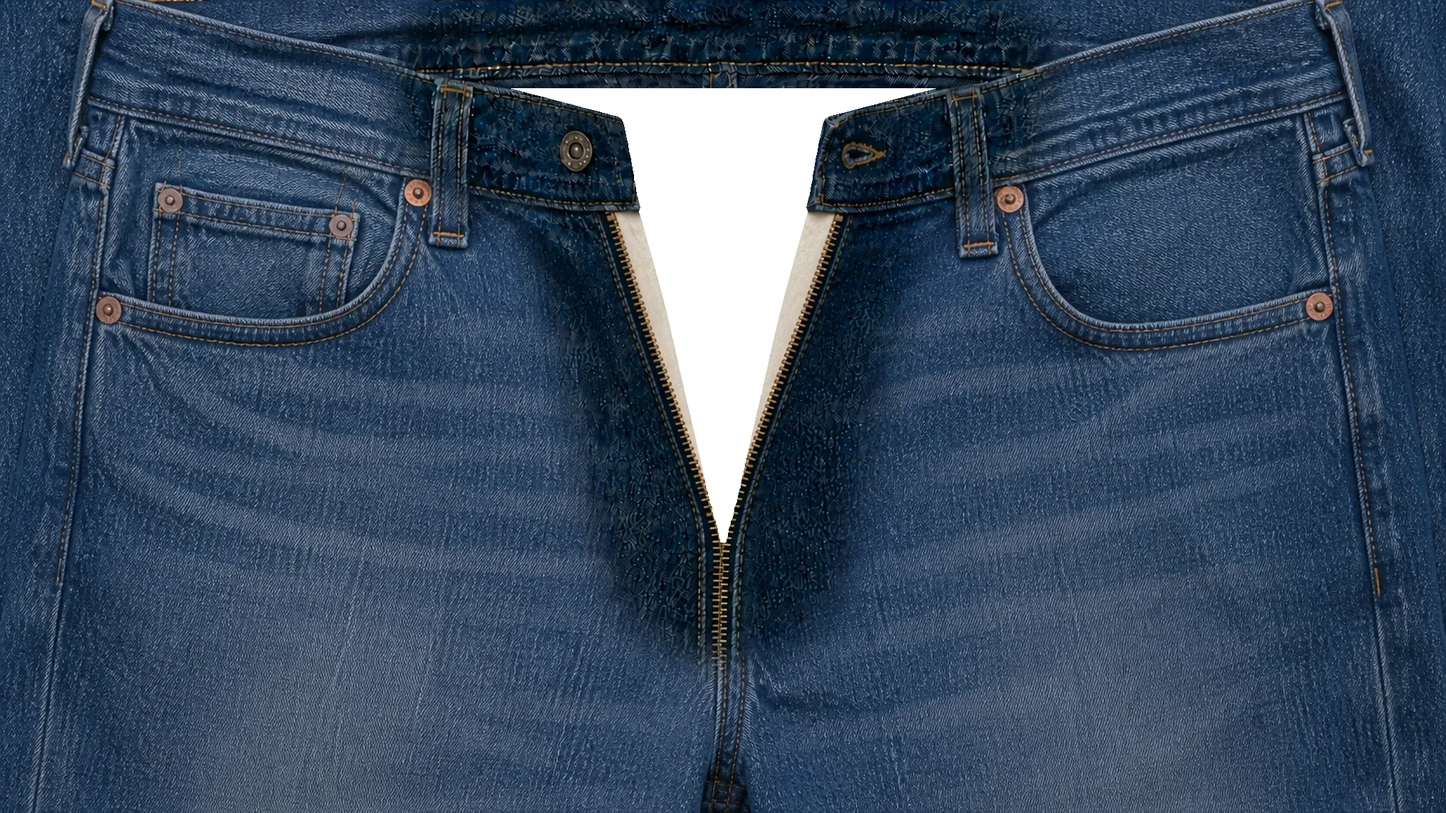
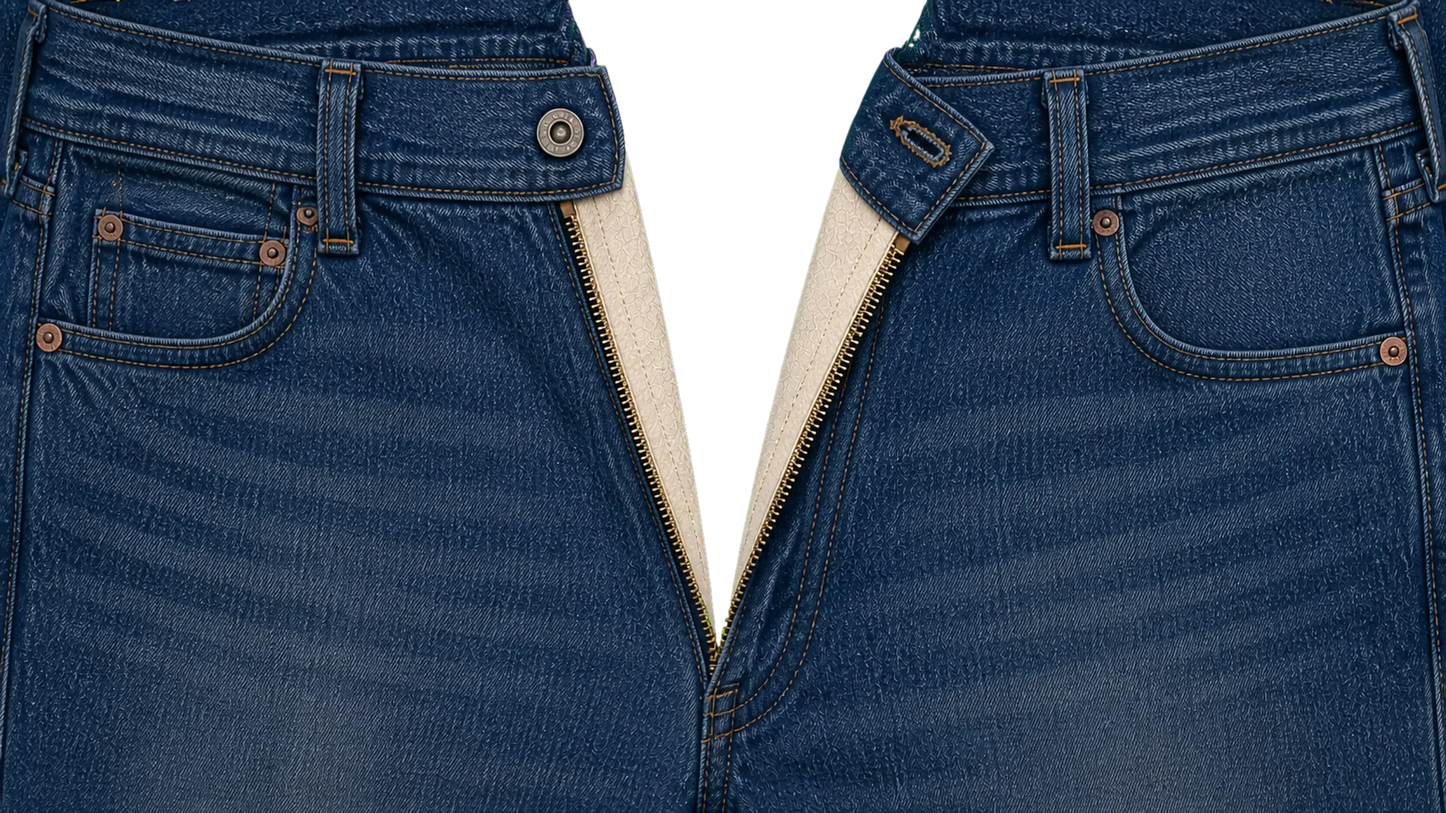
fix(zipper-pull): 牛仔褲全開幀重生，齒條層次修正、開口放大
第 4、5 幀改用 gpt-image-2 以閉合幀＋v6 開口幀為參考重新生成，
綠幕去背後以 ECC 仿射對齊回第 0 幀，口袋、鉚釘、側縫逐條對得上。

- 齒條層次接回第 1~3 幀：丹寧 → 黃銅齒 → 米色布條 → 開口
  （前一版反了，變成布條在外、銅齒貼著開口）
- 兩側布料往外敞開、布條攤平呈斜面，不再是收窄的細 V
- 腰頭兩側完整：皮帶環、鉚釘、腰頭下緣車線接到鈕扣與釦眼，不再淡出消失
- 開口放大：第 5 幀 x 492~1556、尖點 y 993（原 720~1387 / 781）
- 透明面積 0 → 623 → 5,729 → 43,037 → 137,491 → 344,735 單調遞增

apex 與 contentBox 依實測開口重設，否則新尖點會掉出內容層範圍。

diff --git a/effects/zipper-pull/effect.js b/effects/zipper-pull/effect.js
@@ -13,11 +13,11 @@ const GARMENTS = {
     sliderUrl: "assets/slider-jeans2.png",
     axis: "v",
     line: 1024,
-    apex: [288, 325, 486, 525, 768, 781],
+    apex: [288, 325, 486, 525, 915, 993],
     // 這條原圖 y 對齊畫面頂端：裁掉腰頭上緣的深色帶，褲身看起來更近更滿
     focusTop: 100,
     // 內容層只鋪這塊原圖區域（開口最大範圍外擴一點），避免內容被放大到糊掉
-    contentBox: [586, 81, 876, 720]
+    contentBox: [452, 60, 1144, 960]
   },
   bag: {
     // 只用到第 7 幀：素材有 12 幀，但更大的開口會超出包身上下緣、吃掉提把
